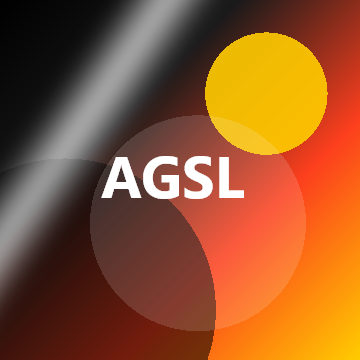
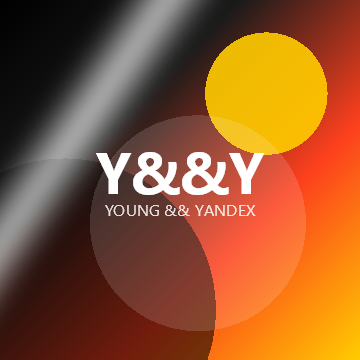
Заменить знак на тестовой картинке на Y&&Y
Вместо «AGSL» — крупное «Y&&Y» с подписью «YOUNG && YANDEX». Полное имя
одной строкой не влезало: 13 символов на квадрате 360 пришлось бы резать
вдвое по кеглю, а на превью шириной 120 px оно стало бы нечитаемым.
Короткий знак плюс подпись используют уже имевшуюся в макете двухъярусную
структуру.

Текст в рендерере превью заодно отцентрован по измеренной ширине — до
этого он был прибит к фиксированному отступу слева.

Changed region(s): [[0.275, 0.3972, 0.7333, 0.6111]]

diff --git a/demo/src/main/kotlin/com/mikhailov/agslfx/demo/ui/SampleContent.kt b/demo/src/main/kotlin/com/mikhailov/agslfx/demo/ui/SampleContent.kt
@@ -66,18 +66,19 @@ fun SampleArtwork(modifier: Modifier = Modifier) {
             verticalArrangement = Arrangement.spacedBy(2.dp),
         ) {
             Text(
-                text = "AGSL",
+                text = "Y&&Y",
                 color = Color.White,
                 fontSize = 44.sp,
                 fontWeight = FontWeight.Black,
                 fontFamily = FontFamily.SansSerif,
             )
             Text(
-                text = "Android Graphics\nShading Language",
+                text = "YOUNG && YANDEX",
                 color = Color.White.copy(alpha = 0.85f),
                 fontSize = 12.sp,
                 textAlign = TextAlign.Center,
                 fontWeight = FontWeight.Medium,
+                letterSpacing = 2.sp,
             )
         }
     }

diff --git a/tools/render_previews.py b/tools/render_previews.py
@@ -75,9 +75,14 @@ def sample_artwork(size):
         canvas.drawCircle(size * 0.18, size * 0.86, size * 0.42, skia.Paint(Color=0x8C000000))
         canvas.drawCircle(size * 0.55, size * 0.62, size * 0.30, skia.Paint(Color=0x24FFFFFF))
         try:
-            font = skia.Font(skia.Typeface.MakeFromName("DejaVu Sans", skia.FontStyle.Bold()), size * 0.16)
-            text = skia.TextBlob("AGSL", font)
-            canvas.drawTextBlob(text, size * 0.28, size * 0.55, skia.Paint(Color=0xFFFFFFFF))
+            mark = skia.Font(skia.Typeface.MakeFromName("DejaVu Sans", skia.FontStyle.Bold()), size * 0.16)
+            caption = skia.Font(skia.Typeface.MakeFromName("DejaVu Sans", skia.FontStyle.Normal()), size * 0.045)
+            canvas.drawTextBlob(skia.TextBlob("Y&&Y", mark),
+                                (size - mark.measureText("Y&&Y")) / 2, size * 0.54,
+                                skia.Paint(Color=0xFFFFFFFF))
+            canvas.drawTextBlob(skia.TextBlob("YOUNG && YANDEX", caption),
+                                (size - caption.measureText("YOUNG && YANDEX")) / 2, size * 0.60,
+                                skia.Paint(Color=0xD9FFFFFF))
         except Exception:  # шрифта может не быть — превью останется без подписи
             pass
     return surface.makeImageSnapshot()
